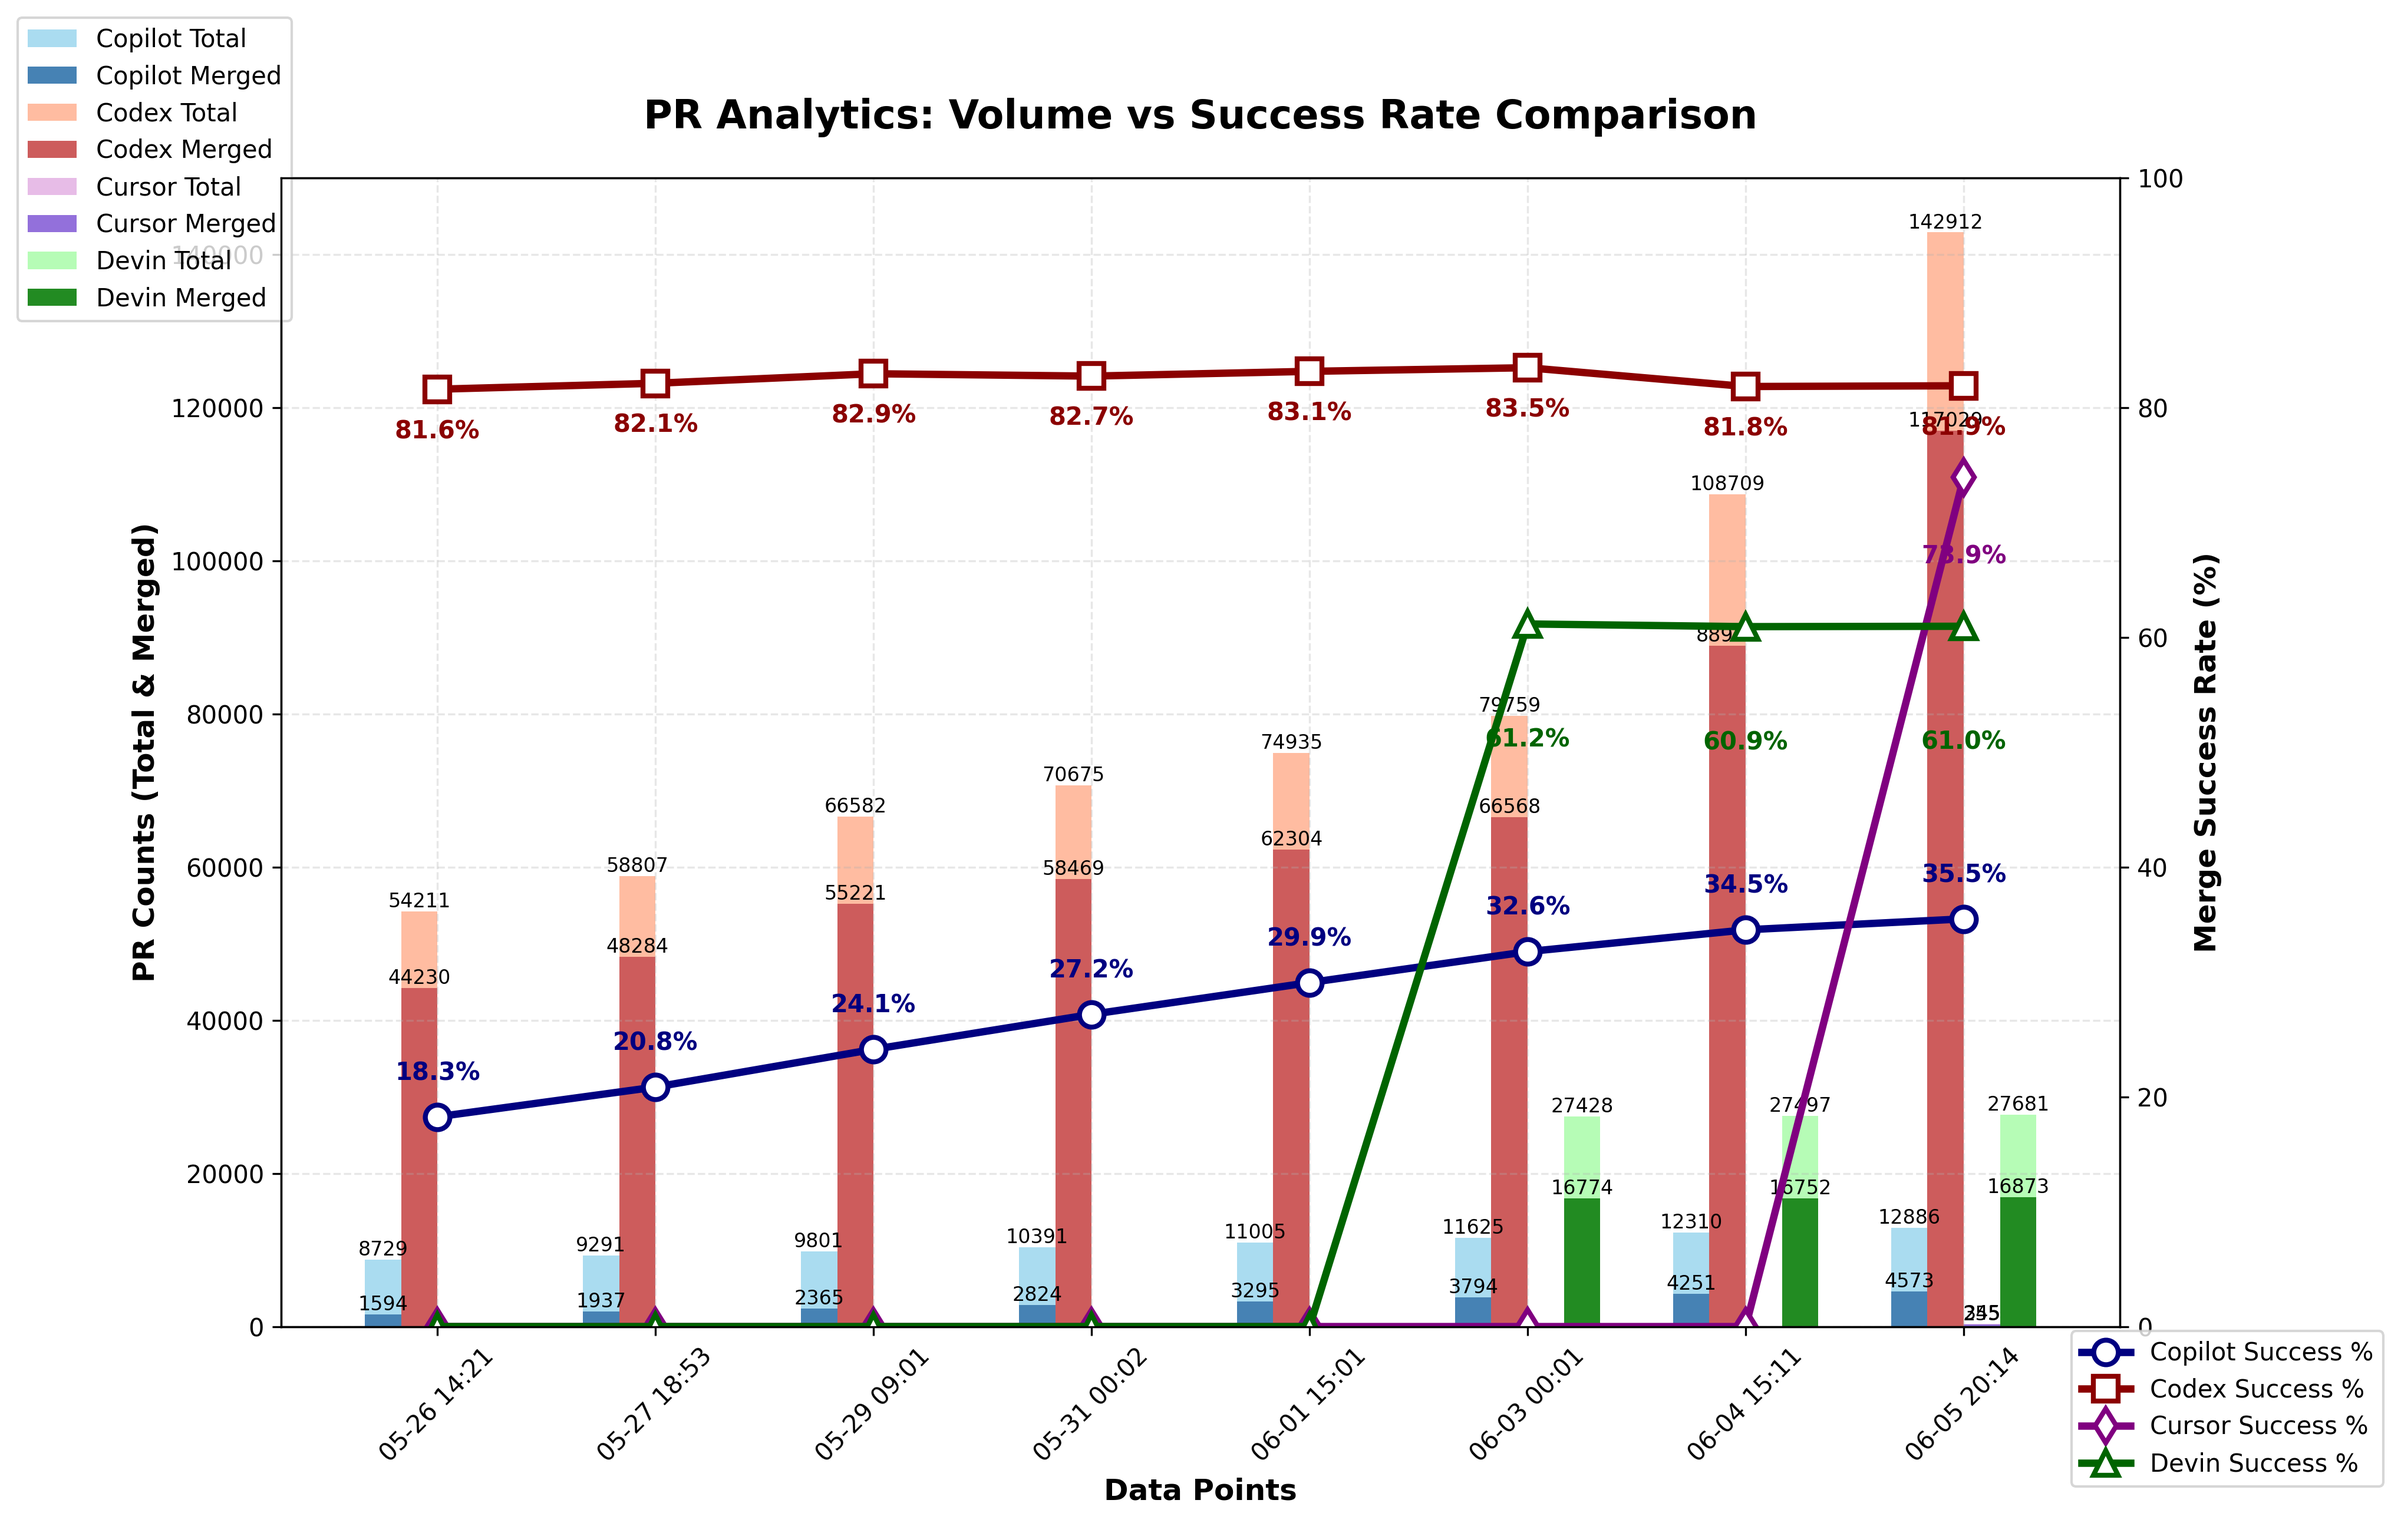
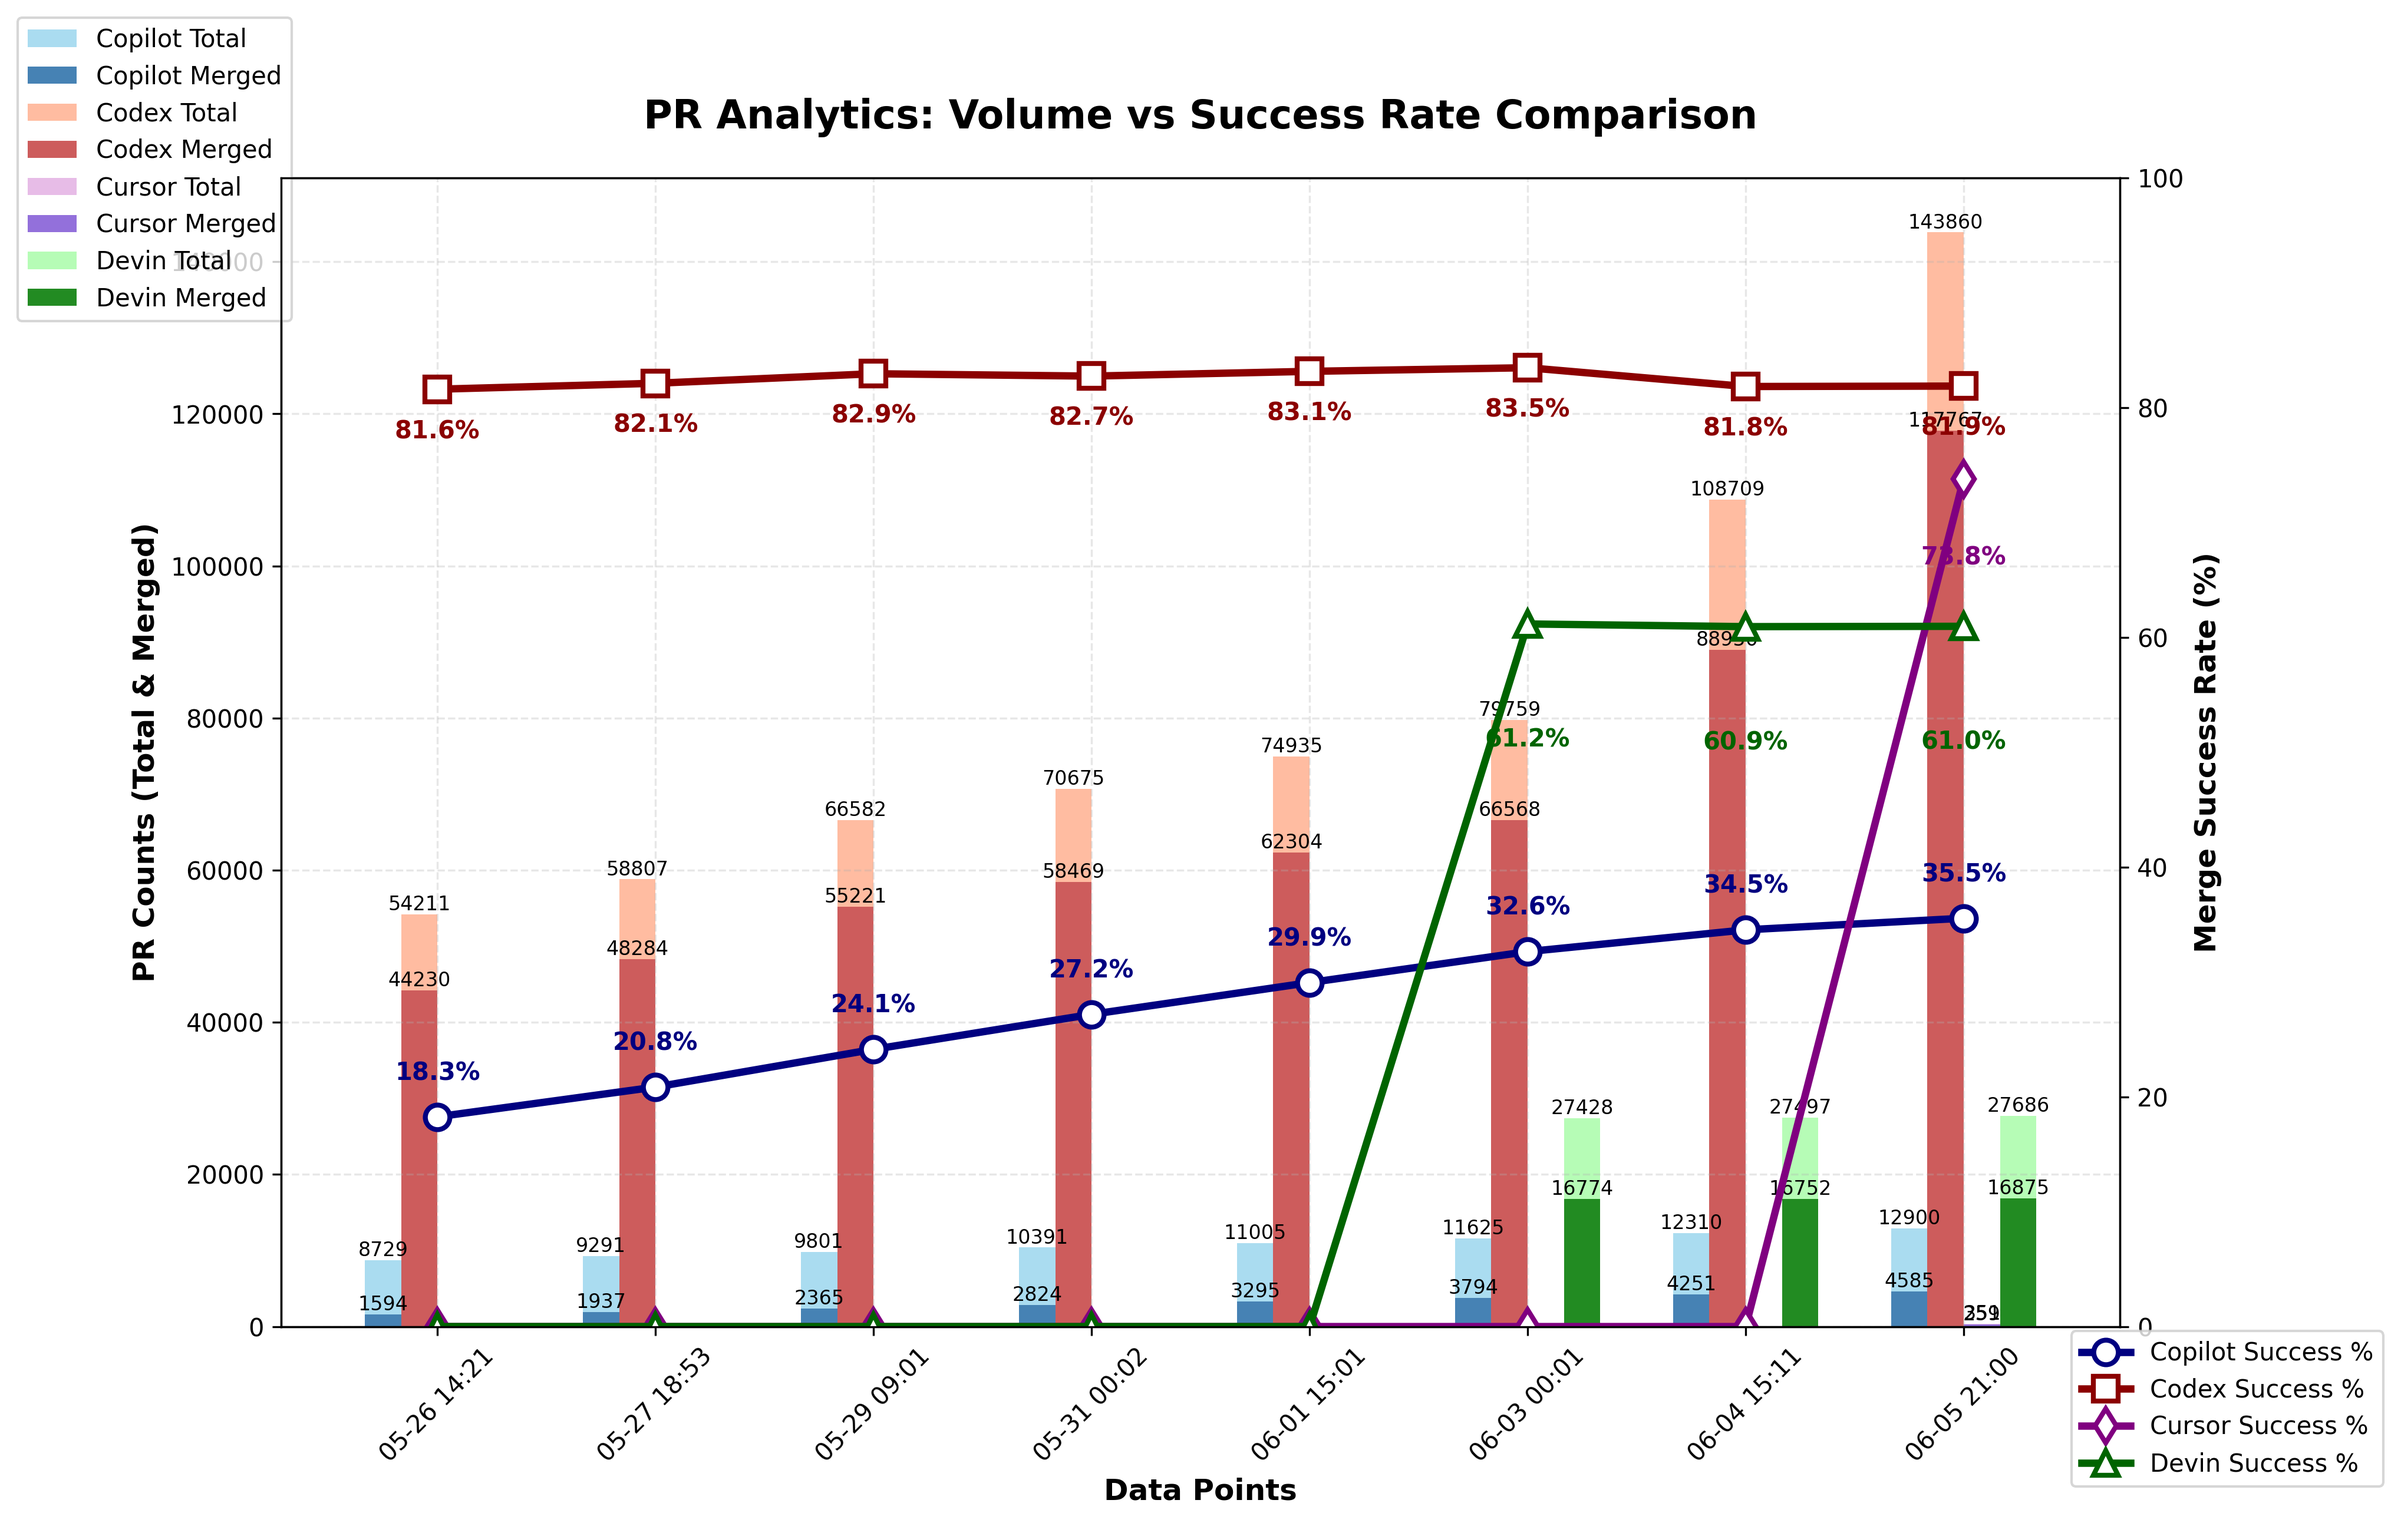
chore: update PR‑approval chart

diff --git a/docs/index.html b/docs/index.html
@@ -272,7 +272,7 @@
 
       <footer>
         <p>
-          Last updated: <span id="last-updated">June 05, 2025 20:14 UTC</span>
+          Last updated: <span id="last-updated">June 05, 2025 21:01 UTC</span>
         </p>
         <p>
           <a href="https://github.com/aavetis/ai-pr-watcher">View on GitHub</a>

diff --git a/README.md b/README.md
@@ -23,7 +23,7 @@ Explore the GitHub search queries used:
 
 | Project | Total PRs | Merged PRs | Merge Rate |
 | ------- | --------- | ---------- | ---------- |
-| Copilot | 12,886 | 4,573 | 35.49% |
-| Codex   | 142,912 | 117,029 | 81.89% |
-| Cursor  | 345 | 255 | 73.91% |
-| Devin   | 27,681 | 16,873 | 60.96% |
+| Copilot | 12,900 | 4,585 | 35.54% |
+| Codex   | 143,860 | 117,767 | 81.86% |
+| Cursor  | 351 | 259 | 73.79% |
+| Devin   | 27,686 | 16,875 | 60.95% |
